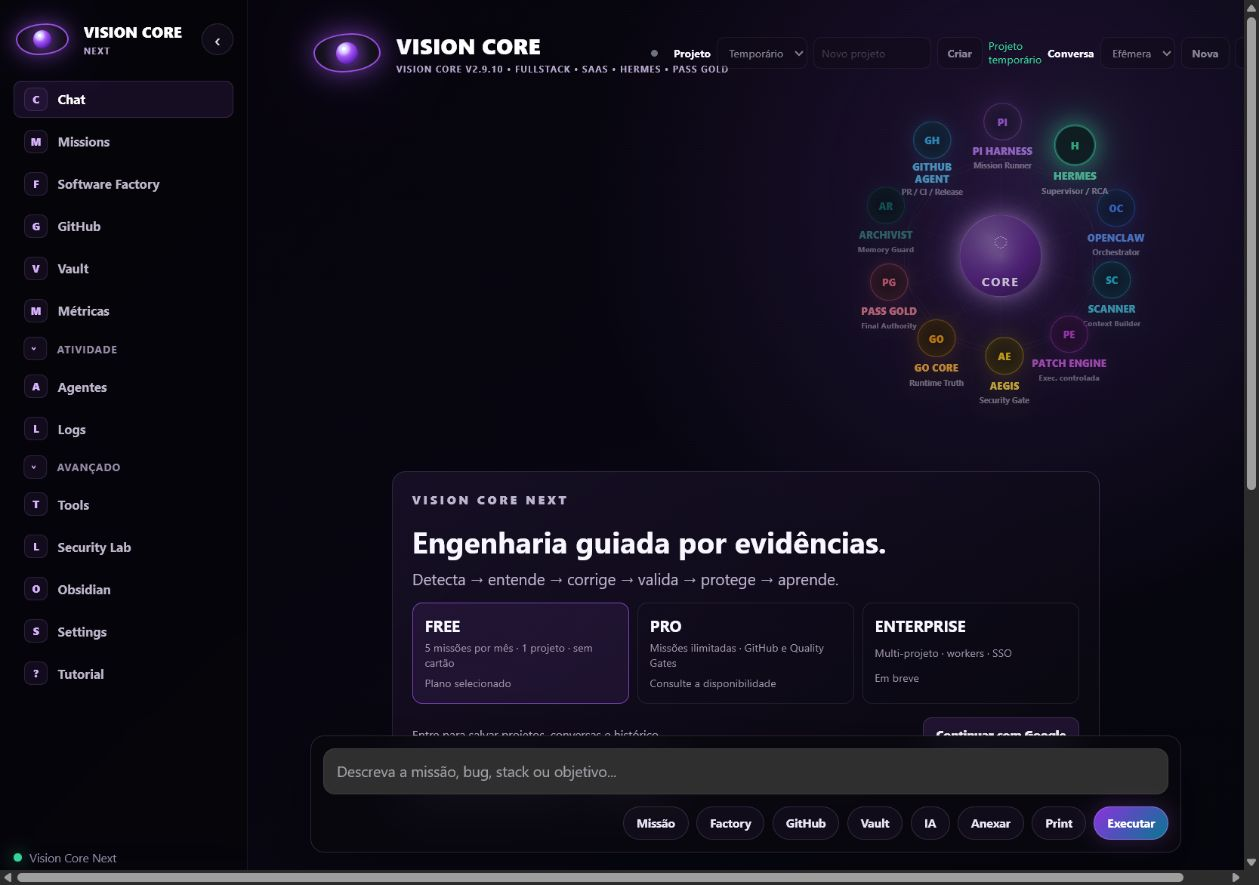
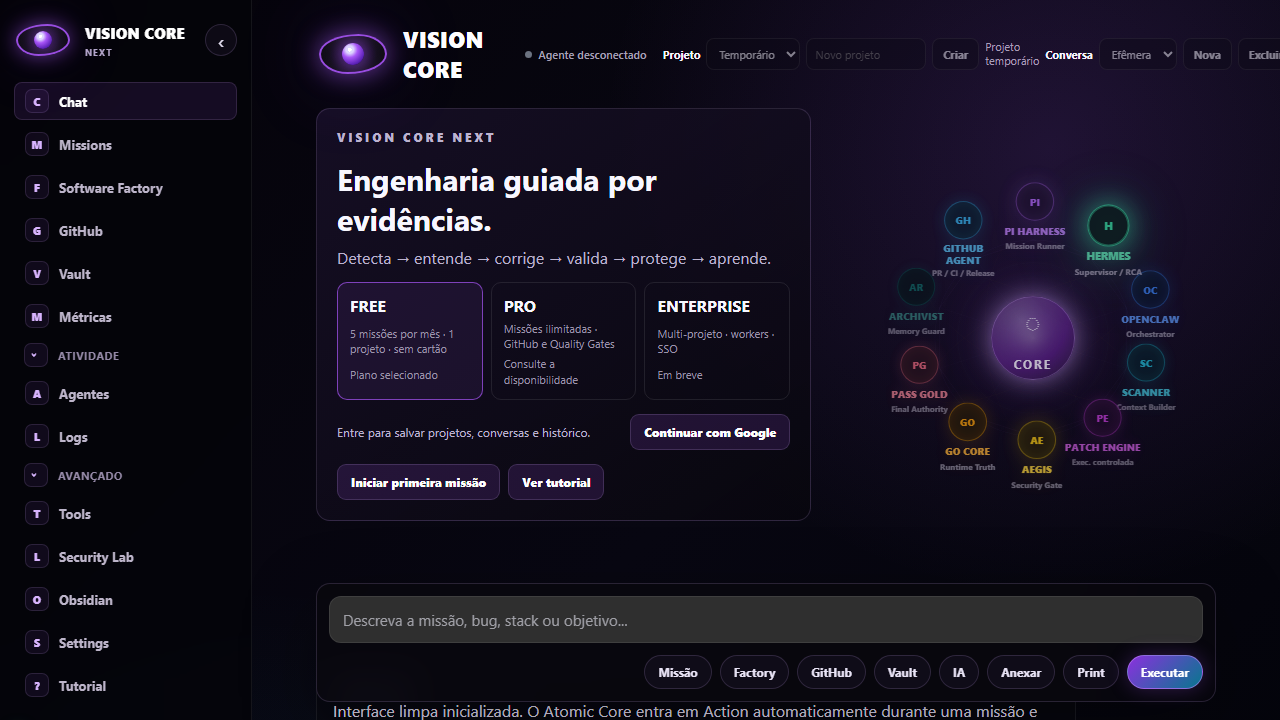
fix(next): fill empty chat hero area

diff --git a/frontend/assets/vision-core-next-clean.css b/frontend/assets/vision-core-next-clean.css
@@ -1160,13 +1160,23 @@ a { color: inherit; text-decoration: none; }
 }
 
 .vc-chat-onboarding:not([hidden]) {
-  width: min(720px, calc(100% - 24px));
-  margin: 18px auto 8px;
+  grid-area: onboarding;
+  width: 100%;
+  margin: 0;
   padding: 20px;
   border: 1px solid rgba(216,180,254,.16);
   border-radius: 14px;
   background: linear-gradient(145deg, rgba(28,18,45,.72), rgba(8,7,14,.88));
 }
+.vc-chat-hero {
+  display: grid;
+  grid-template-columns: minmax(0, 1fr) auto;
+  grid-template-areas: "onboarding atomic";
+  align-items: center;
+  gap: clamp(18px, 3vw, 42px);
+  width: 100%;
+}
+.vc-chat-hero .vc-atomic-hud { grid-area: atomic; }
 .vc-chat-onboarding h1 { margin: 4px 0 8px; font-size: clamp(20px, 3vw, 30px); }
 .vc-chat-onboarding > p { margin: 0 0 14px; color: #bdb4cf; }
 .vc-onboarding-plans { display: grid; grid-template-columns: repeat(3, minmax(0,1fr)); gap: 8px; }
@@ -1271,12 +1281,13 @@ a { color: inherit; text-decoration: none; }
   .vc-chat-stage { padding-top: 14px; }
   .vc-safe-status-row { grid-template-columns: 1fr; }
   .vc-atomic-hud { display: none; }
+  .vc-chat-hero { grid-template-columns: minmax(0, 1fr); grid-template-areas: "onboarding"; }
   .vc-onboarding-plans { grid-template-columns: 1fr; }
   .vc-onboarding-account { align-items: stretch; flex-direction: column; }
 }
 
 @media (max-width: 420px) {
-  .vc-chat-onboarding:not([hidden]) { width: 100%; margin-top: 8px; padding: 14px; }
+  .vc-chat-onboarding:not([hidden]) { width: 100%; padding: 14px; }
   .vc-onboarding-actions { flex-direction: column; }
   .vc-smile-card { max-height: calc(100vh - 24px); overflow-y: auto; }
 }

diff --git a/frontend/vision-core-next.html b/frontend/vision-core-next.html
@@ -65,7 +65,6 @@
           <span class="vc-eye-logo vc-eye-logo-large" aria-hidden="true"><span class="vc-eye"><span class="vc-pupil"></span><span class="eye-lid-top"></span><span class="eye-lid-bottom"></span></span></span>
           <span class="vc-brand-copy">
             <strong>VISION CORE</strong>
-            <small>VISION CORE V2.9.10 • FULLSTACK • SAAS • HERMES • PASS GOLD</small>
           </span>
         </div>
         <span class="vc-agent-badge" id="vcAgentBadge" role="status" aria-label="Status do agente local" data-state="disconnected"></span>
@@ -91,6 +90,7 @@
 
       <section class="vc-chat-stage" id="chat" aria-label="Chat Vision Core">
         <div class="vc-chat-scroll" id="vcChatScroll">
+        <div class="vc-chat-hero" id="vcChatHero">
         <section class="vc-atomic-hud" data-atomic-core data-state="idle" data-glow="on" aria-label="Atomic Core Vision Core">
           <svg class="vc-atomic-rings" viewBox="0 0 360 360" aria-hidden="true">
             <defs>
@@ -142,6 +142,7 @@
             <button type="button" data-smile-open>Ver tutorial</button>
           </div>
         </section>
+        </div>
         <div class="vc-chat-stream" id="vcChatStream" aria-live="polite">
           <article class="vc-message vc-message-system">
             <span>VISION CORE</span>

diff --git a/docs/VISION_CORE_NEXT_FRONTEND_SPEC.md b/docs/VISION_CORE_NEXT_FRONTEND_SPEC.md
@@ -211,7 +211,9 @@ Um único `<div class="vc-app-shell" data-sidebar-state="expanded|collapsed">` c
 
 ### Estado vazio e tutorial
 
-`#vcChatOnboarding` ocupa de forma compacta o estado vazio do Chat e sai do layout quando existe mensagem real, missao em curso, tutorial aberto ou outra aba ativa. Reutiliza o composer, o contrato OAuth Google e o estado de conta existentes; Free e o unico plano selecionado, Pro e apenas informativo e Enterprise fica `Em breve`, sem preco, checkout ou billing inventado.
+`#vcChatHero` usa a primeira faixa do Chat em grid: `#vcChatOnboarding` ocupa a area livre e o Atomic Core preserva sua posicao a direita, sem uma linha vazia acima. No mobile, a regra existente oculta o Atomic e o onboarding usa toda a largura. O onboarding sai do layout quando existe mensagem real, missao em curso, tutorial aberto ou outra aba ativa; o historico assume o fluxo e o composer permanece sticky na parte inferior. Reutiliza o composer, o contrato OAuth Google e o estado de conta existentes; Free e o unico plano selecionado, Pro e apenas informativo e Enterprise fica `Em breve`, sem preco, checkout ou billing inventado.
+
+O header principal do Chat contem somente logo/nome Vision Core, status do agente, projeto e conversa. Versao, stack, SaaS, Hermes e PASS GOLD nao aparecem nesse header; informacao de build pertence apenas a superficies tecnicas.
 
 `#vcSmileModal` continua sendo o unico overlay/modal do Vision Core Next, agora apresentado como Tutorial. Seus 13 passos estaticos usam `textContent`, X/ESC/Pular/Voltar/Proximo, foco contido e restaurado. `localStorage['vc_tutorial_hidden']` guarda somente "Nao mostrar novamente"; Settings remove essa preferencia em "Reiniciar tutorial". O modal nao chama backend e nao cria campo paralelo de missao.
 

diff --git a/docs/CHANGELOG_NEXT.md b/docs/CHANGELOG_NEXT.md
@@ -6,6 +6,8 @@ Formato: mais recente no topo.
 
 ## next-clean-91 (2026-07-14, não deployado)
 
+- Hero inicial passou a usar a faixa superior inteira: onboarding à esquerda e Atomic Core intacto à direita; mobile usa uma coluna e o histórico substitui o onboarding após a primeira mensagem.
+- Header principal agora mostra apenas marca, agente, projeto e conversa; versão/stack/SaaS/Hermes/PASS GOLD foram removidos dessa superfície.
 - Estado vazio do Chat ganhou onboarding compacto com fluxo do produto, Free/Pro/Enterprise sem billing fictício, OAuth Google real e início da primeira missão pelo composer existente.
 - Item Smile virou Tutorial; o modal existente agora cobre 13 passos, foco/teclado, pular, não mostrar novamente e reinício em Settings.
 - Texto estreito `Entre para persistir projetos` foi substituído por `Projeto temporário`; após login, o onboarding reflete a conta real.

diff --git a/docs/CURRENT_STATE.md b/docs/CURRENT_STATE.md
@@ -40,6 +40,8 @@ ver `git log -1 --oneline` (pode haver commit local ainda não pushado)
 ---
 
 # IMPLEMENTAÇÕES DESTA SESSÃO
+✔ Hero Area do Chat ajustada localmente, sem deploy: onboarding e Atomic Core agora compartilham a primeira faixa responsiva, eliminando o vazio superior sem alterar o componente Atomic; composer permanece sticky no rodapé e a primeira mensagem remove o onboarding do fluxo. O header principal perdeu a copy interna `V2.9.10 • FULLSTACK • SAAS • HERMES • PASS GOLD`, mantendo logo/nome, agente, projeto e conversa. Gates: App Shell 14/14 em desktop e 375px; pacote 11/11; pairing 13/13; performance 59/59 (394.166B, p95 máximo 29,03ms); Next 128/128 sem retry em 44,7s.
+
 ✔ Onboarding/Auth/Tutorial do estado vazio implementado localmente, sem deploy: Chat vazio ganhou apresentação compacta, planos honestos e CTA para o composer; Google reutiliza `/api/auth/oauth/google?return_to=next`; o status vertical do header virou `Projeto temporário`; Smile foi renomeado Tutorial e o modal existente evoluiu para 13 passos com foco preso, Escape, pular, preferência persistida e reinício em Settings. Nenhum billing, endpoint, store ou produto paralelo foi criado. Gates: pacote 11/11, pairing 13/13, performance 59/59 (393.913B; p95 máximo 33,73ms), Next 127/127 sem retry. Screenshots em `artifacts/next-onboarding/`.
 
 ✔ OPS-002 pronto até o gate produtivo: hashes do RC (`72e6a02c...`), package (`f4a4db9f...`) e predecessor (`76918f97...`) revalidados; ZIP tem 13 entradas, raiz e rota Next, sem bundle legado. A raiz pública foi verificada ainda no predecessor. Nenhum deploy em `main` foi executado. Estado permanece 23/26 até o cutover efetivo.

diff --git a/docs/UI_COMPONENT_LIBRARY.md b/docs/UI_COMPONENT_LIBRARY.md
@@ -66,7 +66,7 @@ Escopo: componentes reais em `vision-core-next-clean.{css,js}`. Fora do escopo: 
 
 ### Estado vazio do Chat
 
-**Estrutura:** `#vcChatOnboarding` reutiliza o estado de `#vcChatStream`, o composer e o OAuth existente. Aparece apenas no Chat sem mensagens reais e sem missao/tutorial ativo; planos sao informativos e nao implementam billing.
+**Estrutura:** `#vcChatHero` agrupa `#vcChatOnboarding` e o Atomic Core numa unica faixa superior responsiva. O onboarding reutiliza o estado de `#vcChatStream`, o composer e o OAuth existente; aparece apenas no Chat sem mensagens reais e sem missao/tutorial ativo. Planos sao informativos e nao implementam billing. Ao surgir a primeira mensagem, o onboarding usa `hidden` e o historico ocupa seu lugar no fluxo.
 
 ### Modal Tutorial
 